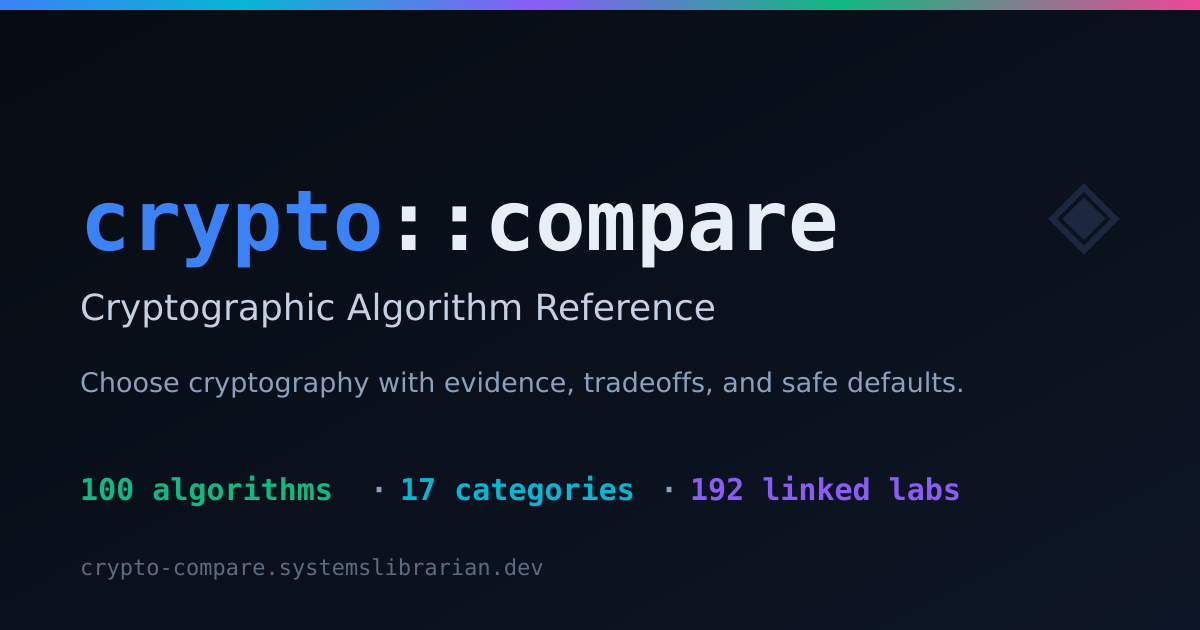
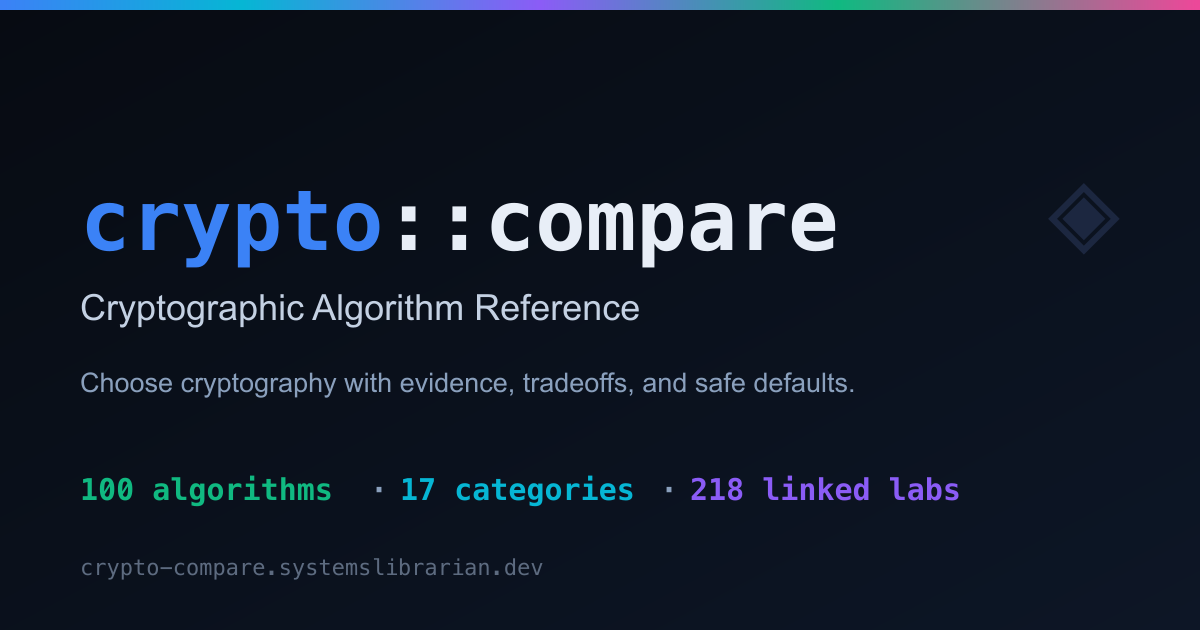
Map the 26 unmapped crypto-lab demos, 12 onto algorithms that had none (#32)
`check:demos` reported 26 live slugs with no entry in `demoResources.ts`. The
open drift issue listed 15; it was generated on 2026-09-28 and the catalog has
moved since, which is the issue being updated in place working as intended.

Placement is derived from each lab's `data-implements` evidence in the catalog
rather than from its name, so a lab lands beside the algorithm it actually
builds. That put 12 of them on algorithms that had no demo at all, which is a
better outcome than piling them onto the AES bucket:

  kuznyechik       MGM Mode, Sleeve Check
  snow_v           Air Stream, Misty Lens
  aes256gcmsiv     Order Leak
  p384             Privacy Pass
  mlkem512         PQ Chooser
  mldsa87          PQ Chooser
  haetae           KpqC Pair
  sm3              SM2 Forge
  streebog         TC26 Pair, Sleeve Check
  additive_sharing Proof Tally
  sm2_enc          SM2 Forge
  bn254            SM9 Forge

27 algorithms had no demo before this; 15 still do.

Four placements are worth saying out loud, because the obvious home was wrong:

- Misty Lens is MISTY1 and KASUMI, so it reads as "block cipher" and would
  have gone to `aes256gcm`. KASUMI is 3GPP's block cipher, standardised
  alongside SNOW 3G, and Air Stream computes both — `snow_v` keeps the 3GPP
  family together.
- Return Path is a toy SPN with no AES in it, and goes to `aes256gcm` anyway:
  it is the same toy SPN as Biham Lens, which already sits in that bucket.
[…]

Changed region(s): [[0.0925, 0.573, 0.8017, 0.6333], [0.0617, 0.4524, 0.6167, 0.5429], [0.555, 0.754, 0.6167, 0.8143]]

diff --git a/src/data/demoResources.ts b/src/data/demoResources.ts
@@ -111,6 +111,21 @@ export const ALGORITHM_DEMOS: Record<string, DemoResource[]> = {
       url: "https://systemslibrarian.github.io/crypto-lab-sector-vault/",
       note: "XTS-AES as full-disk encryption actually uses it, and the three attacks it silently returns plaintext for — then AES-GCM added to show which two that stops.",
     },
+    {
+      title: "Export Grade",
+      url: "https://systemslibrarian.github.io/crypto-lab-export-grade/",
+      note: "Runs real TETRA TEA1, traces its 80-bit key into a 32-bit working register, then extrapolates the rate your browser measured out to 2^80 and 2^128 beside the published attacks on full-round AES.",
+    },
+    {
+      title: "Glass Box",
+      url: "https://systemslibrarian.github.io/crypto-lab-glass-box/",
+      note: "Chow-style white-box AES-128 built from your key as 2,032 encoded lookup tables, then attacked twice: differential computation analysis recovers the key from execution traces, and BGE step A1 strips the table encodings.",
+    },
+    {
+      title: "Return Path",
+      url: "https://systemslibrarian.github.io/crypto-lab-return-path/",
+      note: "Impossible differentials and the boomerang attack on a toy SPN, with DDT and BCT tables computed live and an adaptive chosen-ciphertext oracle.",
+    },
   ],
   chacha20poly: [
     {
@@ -154,6 +169,37 @@ export const ALGORITHM_DEMOS: Record<string, DemoResource[]> = {
       title: "Stream Ward",
       url: "https://systemslibrarian.github.io/crypto-lab-stream-ward/",
       note: "Streaming AEAD over large files with XChaCha20-Poly1305 secretstream, showing how per-segment tags still verify after reorder, drop, or truncation until a chained state binds them.",
+    },
+  ],
+  kuznyechik: [
+    {
+      title: "MGM Mode",
+      url: "https://systemslibrarian.github.io/crypto-lab-mgm-mode/",
+      note: "MGM, the GOST AEAD mode of RFC 9058, over Magma and Kuznyechik: a distinct authentication coefficient per block against GCM's single H, every RFC test value checked, nonce reuse, and why 64-bit blocks re-key sooner.",
+    },
+    {
+      title: "Sleeve Check",
+      url: "https://systemslibrarian.github.io/crypto-lab-sleeve-check/",
+      note: "GOST published Kuznyechik's 256-byte S-box as a bare table. It falls out of four small constants and field arithmetic — evidence about how it was designed, which is not by itself an attack.",
+    },
+  ],
+  snow_v: [
+    {
+      title: "Air Stream",
+      url: "https://systemslibrarian.github.io/crypto-lab-air-stream/",
+      note: "Generates 128-EEA1, 128-EEA2 and 128-EEA3 keystream from one key, COUNT, bearer and direction, checking SNOW 3G, AES-CTR and ZUC against the test vectors in each specification.",
+    },
+    {
+      title: "Misty Lens",
+      url: "https://systemslibrarian.github.io/crypto-lab-misty-lens/",
+      note: "MISTY1 beside KASUMI, the 3GPP variant derived from it, with the design changes mapped and the seven-round related-key sandwich distinguisher executed in the page.",
+    },
+  ],
+  aes256gcmsiv: [
+    {
+      title: "Order Leak",
+      url: "https://systemslibrarian.github.io/crypto-lab-order-leak/",
+      note: "A column you can still sort or match on has published the shape of its answers: BCLO OPE and CLWW ORE beside AES-SIV, where equality, order and a public distribution hand back plaintext cell by cell without the key being touched.",
     },
   ],
   curve25519: [
@@ -357,6 +403,13 @@ export const ALGORITHM_DEMOS: Record<string, DemoResource[]> = {
       note: "TPM quote signatures as ECDSA P-256, deterministic per RFC 6979, with restricted-key TPM_RC_TICKET enforcement and RATS/EAT appraisal.",
     },
   ],
+  p384: [
+    {
+      title: "Privacy Pass",
+      url: "https://systemslibrarian.github.io/crypto-lab-privacy-pass/",
+      note: "A VOPRF over P-384 with a DLEQ proof (RFC 9578): the token proves the issuer authorised someone without the issuer, the origin, or the two colluding learning who. Remove the client's blind and nothing on the wire changes.",
+    },
+  ],
   secp256k1: [
     {
       title: "ECDSA Forge",
@@ -388,12 +441,29 @@ export const ALGORITHM_DEMOS: Record<string, DemoResource[]> = {
       url: "https://systemslibrarian.github.io/crypto-lab-musig-gate/",
       note: "MuSig2 (BIP-327) key and nonce aggregation producing a single secp256k1 Schnorr signature, plus the Wagner and ROS forgeries the scheme defends against.",
     },
+    {
+      title: "Adaptor Gate",
+      url: "https://systemslibrarian.github.io/crypto-lab-adaptor-gate/",
+      note: "BIP-340 adaptor signatures: one click turns a pre-signature the real verifier rejects into a valid signature, and subtracting the two reads the secret back out — the fact atomic swaps and PTLC routing are built on.",
+    },
+    {
+      title: "Point Ledger",
+      url: "https://systemslibrarian.github.io/crypto-lab-point-ledger/",
+      note: "Quantum resource estimates for secp256k1 beside a classical multiplication dialog, and where fuzz-test evidence stops supporting a Fiat-Shamir soundness claim.",
+    },
   ],
   curve448_ed448: [
     {
       title: "Curve448",
       url: "https://systemslibrarian.github.io/crypto-lab-curve448/",
       note: "High-security curve walkthrough for X448 and Ed448 style key agreement and signatures.",
+    },
+  ],
+  mlkem512: [
+    {
+      title: "PQ Chooser",
+      url: "https://systemslibrarian.github.io/crypto-lab-pq-chooser/",
+      note: "Set what constrains you and get a shortlist of two or three post-quantum schemes, built from sizes it derives by running ML-KEM, ML-DSA, Falcon and SLH-DSA in your browser rather than quoting a table.",
     },
   ],
   mlkem768: [
@@ -534,6 +604,11 @@ export const ALGORITHM_DEMOS: Record<string, DemoResource[]> = {
       url: "https://systemslibrarian.github.io/crypto-lab-ciphertext-mirror/",
       note: "ML-KEM side-channel walkthrough across the Fujisaki-Okamoto transform, decoder behavior, and NTT blinding countermeasures.",
     },
+    {
+      title: "PQXDH Wire",
+      url: "https://systemslibrarian.github.io/crypto-lab-pqxdh-wire/",
+      note: "One ML-KEM-1024 secret added to the X3DH transcript is what survives a future curve break. The prekey signature and the ratchet after it are untouched, so Bob can still be impersonated with every check green.",
+    },
   ],
   smaug_t: [
     {
@@ -545,6 +620,11 @@ export const ALGORITHM_DEMOS: Record<string, DemoResource[]> = {
       title: "NTRU Classic",
       url: "https://systemslibrarian.github.io/crypto-lab-ntru-classic/",
       note: "Lattice-encryption intuition builder for NTRU-style designs and their deployment tradeoffs.",
+    },
+    {
+      title: "KpqC Pair",
+      url: "https://systemslibrarian.github.io/crypto-lab-kpqc-pair/",
+      note: "NTRU+ from the older NTRU line beside historical AIM2-based AIMer signing, both KpqC candidates. Honest round trips do not establish signature security.",
     },
   ],
   hqc: [
@@ -674,6 +754,20 @@ export const ALGORITHM_DEMOS: Record<string, DemoResource[]> = {
       note: "Real MAYO keygen, signing, and verification over GF(16), showing how an oil space too small to invert becomes solvable once k copies of the map are whipped together.",
     },
   ],
+  mldsa87: [
+    {
+      title: "PQ Chooser",
+      url: "https://systemslibrarian.github.io/crypto-lab-pq-chooser/",
+      note: "Derives ML-DSA, Falcon and SLH-DSA key and signature sizes by running the real algorithms in your browser, then shortlists schemes against your constraints with their TLS wire cost.",
+    },
+  ],
+  haetae: [
+    {
+      title: "KpqC Pair",
+      url: "https://systemslibrarian.github.io/crypto-lab-kpqc-pair/",
+      note: "Historical AIM2-based AIMer signing, with a reported public-key-only forgery vulnerability (ePrint 2026/2235, September 28, 2026), beside NTRU+ from the older NTRU line.",
+    },
+  ],
   falcon512: [
     {
       title: "Falcon Seal",
@@ -706,6 +800,11 @@ export const ALGORITHM_DEMOS: Record<string, DemoResource[]> = {
       title: "Jevil",
       url: "https://systemslibrarian.github.io/crypto-lab-jevil/",
       note: "Hash-based few-time signature scheme over the Goldilocks field using Lagrange interpolation for bounded-use signing with reusable verification keys.",
+    },
+    {
+      title: "TC26 Pair",
+      url: "https://systemslibrarian.github.io/crypto-lab-tc26-pair/",
+      note: "Hypericum, a stateless hash-based TC26 proposal built over Streebog, beside code-based Shipovnik.",
     },
   ],
   xmss: [
@@ -773,6 +872,11 @@ export const ALGORITHM_DEMOS: Record<string, DemoResource[]> = {
       url: "https://systemslibrarian.github.io/crypto-lab-attestation-gate/",
       note: "PCR extension as PCR_new = H(PCR_old || measurement) over a hand-rolled SHA-256, showing the exact 64-byte preimage each measurement hashes.",
     },
+    {
+      title: "Ghost Commit",
+      url: "https://systemslibrarian.github.io/crypto-lab-ghost-commit/",
+      note: "Git adds objects and never edits them, so a committed API key keeps its name and contents two commits after deletion — then a Shannon-entropy scanner finds it in seconds.",
+    },
   ],
   sha512: [
     {
@@ -817,6 +921,25 @@ export const ALGORITHM_DEMOS: Record<string, DemoResource[]> = {
       note: "Cross-standard hash overview and algorithm family context.",
     },
   ],
+  sm3: [
+    {
+      title: "SM2 Forge",
+      url: "https://systemslibrarian.github.io/crypto-lab-sm2-forge/",
+      note: "Reads the SM3 identity digest that precedes every SM2 signature, signs and encrypts under GB/T 32918, compares both deployed ciphertext orders, then recovers a key from a reused nonce.",
+    },
+  ],
+  streebog: [
+    {
+      title: "TC26 Pair",
+      url: "https://systemslibrarian.github.io/crypto-lab-tc26-pair/",
+      note: "Two TC26 post-quantum signature proposals built over Streebog, side by side: code-based Shipovnik and stateless hash-based Hypericum.",
+    },
+    {
+      title: "Sleeve Check",
+      url: "https://systemslibrarian.github.io/crypto-lab-sleeve-check/",
+      note: "Reconstructs the 256-byte GOST S-box that Kuznyechik and Streebog share from four small constants and field arithmetic — evidence about how it was designed, not an attack on it.",
+    },
+  ],
   hkdf: [
     {
       title: "KDF Chain",
@@ -827,6 +950,11 @@ export const ALGORITHM_DEMOS: Record<string, DemoResource[]> = {
       title: "Context Ward",
       url: "https://systemslibrarian.github.io/crypto-lab-context-ward/",
       note: "HKDF role separation deriving per-role seal keys for an agent context window sealed into a SHA-256 hash chain.",
+    },
+    {
+      title: "Drift Key",
+      url: "https://systemslibrarian.github.io/crypto-lab-drift-key/",
+      note: "A code-offset secure sketch over hand-built BCH codes feeds HKDF-SHA-256, turning a noisy reading that never repeats into the same key every time, and prices the entropy the public helper data costs.",
     },
   ],
   argon2_kdf: [
@@ -989,6 +1117,13 @@ export const ALGORITHM_DEMOS: Record<string, DemoResource[]> = {
       note: "Verifiable sharing workflow with commitments and complaint handling.",
     },
   ],
+  additive_sharing: [
+    {
+      title: "Proof Tally",
+      url: "https://systemslibrarian.github.io/crypto-lab-proof-tally/",
+      note: "Prio3: additive shares hide a measurement and will happily add a lie to the total, until a fully linear proof carried in the same shares lets two aggregators reject a malformed report neither of them can read.",
+    },
+  ],
   tfhe: [
     {
       title: "Blind Oracle",
@@ -1057,6 +1192,11 @@ export const ALGORITHM_DEMOS: Record<string, DemoResource[]> = {
       title: "ZK Arena",
       url: "https://systemslibrarian.github.io/crypto-lab-zk-arena/",
       note: "Side-by-side comparison of zk-SNARK and zk-STARK proof systems across setup phases, proving overhead, and verification cost.",
+    },
+    {
+      title: "Fold Gate",
+      url: "https://systemslibrarian.github.io/crypto-lab-fold-gate/",
+      note: "Nova's non-interactive folding scheme: combining two satisfying R1CS instances leaves a computable cross term, and relaxing the system with a slack scalar and an error vector lets one folded instance stand in for all of them.",
     },
   ],
   plonk: [
@@ -1184,6 +1324,11 @@ export const ALGORITHM_DEMOS: Record<string, DemoResource[]> = {
       url: "https://systemslibrarian.github.io/crypto-lab-oram-vault/",
       note: "Access-pattern privacy walkthrough for stronger hiding guarantees in repeated query settings.",
     },
+    {
+      title: "Split Point",
+      url: "https://systemslibrarian.github.io/crypto-lab-split-point/",
+      note: "Secret-share a function rather than a value: two DPF keys each evaluate to shares of one-at-alpha and zero everywhere else, so two non-colluding servers fold 65,536 records and neither learns which one you read.",
+    },
   ],
   aby: [
     {
@@ -1202,6 +1347,18 @@ export const ALGORITHM_DEMOS: Record<string, DemoResource[]> = {
       title: "Rekey Relay",
       url: "https://systemslibrarian.github.io/crypto-lab-rekey-relay/",
       note: "BBS98 proxy re-encryption is ElGamal with the ciphertext components swapped — shown here beside AFGH on the same curve.",
+    },
+    {
+      title: "Function Key",
+      url: "https://systemslibrarian.github.io/crypto-lab-function-key/",
+      note: "ABDP15 inner-product functional encryption over ristretto255: a key answers one weighted-sum question about an encrypted vector and nothing else, until enough colluding keys hand over the master secret.",
+    },
+  ],
+  sm2_enc: [
+    {
+      title: "SM2 Forge",
+      url: "https://systemslibrarian.github.io/crypto-lab-sm2-forge/",
+      note: "Sign and encrypt under GB/T 32918 SM2 (RFC 8998), compare both deployed ciphertext orders, and recover a key from a reused nonce.",
     },
   ],
   rsa_oaep_2048: [
@@ -1234,6 +1391,11 @@ export const ALGORITHM_DEMOS: Record<string, DemoResource[]> = {
       title: "Factor Forge",
       url: "https://systemslibrarian.github.io/crypto-lab-factor-forge/",
       note: "Seven classical factoring methods on a real BigInt modulus, each waiting for a different key-generation mistake — a small factor, a narrow |p - q|, a smooth p-1 or p+1 — with every claimed factor multiplied back and primality-tested before it is shown.",
+    },
+    {
+      title: "Hidden Bit",
+      url: "https://systemslibrarian.github.io/crypto-lab-hidden-bit/",
+      note: "Runs the IND-CPA and CCA games against textbook RSA, RSA-OAEP, RSA-PSS and AES modes: a rising advantage proves a scheme broken, a flat one proves only that these adversaries failed, which is why security needs a reduction.",
     },
   ],
   rsa_oaep_4096: [
@@ -1360,6 +1522,11 @@ export const ALGORITHM_DEMOS: Record<string, DemoResource[]> = {
       url: "https://systemslibrarian.github.io/crypto-lab-drbg-arena/",
       note: "State evolution, reseeding, and backtracking-resistance comparison across DRBGs.",
     },
+    {
+      title: "Noise to Numbers",
+      url: "https://systemslibrarian.github.io/crypto-lab-noise-to-numbers/",
+      note: "NIST SP 800-90B min-entropy from pinned runs of the real assessment tool: a modelled Infinite Noise TRNG scores 0.37 bits per bit, a SHA-256 counter scores 0.92. Entropy belongs to the source, not the bytes.",
+    },
   ],
   chacha20_drbg: [
     {
@@ -1434,11 +1601,23 @@ export const ALGORITHM_DEMOS: Record<string, DemoResource[]> = {
       note: "FAME CP-ABE over BLS12-381 pairings, with a collusion attempt that splices two real keys and shows the term that refuses to cancel.",
     },
   ],
+  bn254: [
+    {
+      title: "SM9 Forge",
+      url: "https://systemslibrarian.github.io/crypto-lab-sm9-forge/",
+      note: "SM9 identity-based signatures, key exchange and encryption over a BN256 pairing curve, run against the standard's own worked examples — with key escrow by construction and a nonce-reuse recovery.",
+    },
+  ],
   bls_threshold: [
     {
       title: "Pairing Gate",
       url: "https://systemslibrarian.github.io/crypto-lab-pairing-gate/",
       note: "Pairing-based threshold signature mechanics and aggregation concepts.",
+    },
+    {
+      title: "Pulse Chain",
+      url: "https://systemslibrarian.github.io/crypto-lab-pulse-chain/",
+      note: "Verifies drand rounds with a BLS12-381 pairing and recomputes real NIST Beacon 2.0 pulses byte by byte, then shows what no check proves: whether the operator knew first.",
     },
   ],
 };

diff --git a/README.md b/README.md
@@ -2,7 +2,7 @@
 
 **Cryptographic algorithm decision system for engineers, architects, and technical decision-makers.**
 
-100 algorithms. 17 categories. 192 unique linked public demos. Sourced recommendations. Safe-usage guidance. Reference architectures. Post-quantum migration context.
+100 algorithms. 17 categories. 218 unique linked public demos. Sourced recommendations. Safe-usage guidance. Reference architectures. Post-quantum migration context.
 
 🌐 **[Live Site →](https://crypto-compare.systemslibrarian.dev/)**
 
@@ -304,7 +304,7 @@ That honesty is part of the trust model, not a weakness in spite of it.
 | **Download justification reports** | Markdown output for architecture reviews and design discussion |
 | **Filter and sort** | PQ-safe, publication stage, NIST status, deployment, origin, and category-appropriate size dimensions; unlike security properties are never globally ranked |
 | **Review hybrid patterns** | Classical-plus-PQ constructions for practical migration planning |
-| **Explore linked demo projects** | 192 unique linked public demos across the mapped categories, with per-category project context in the explainer panels |
+| **Explore linked demo projects** | 218 unique linked public demos across the mapped categories, with per-category project context in the explainer panels |
 | **Read safety and architecture guidance** | Use-case content, pitfalls, library direction, and system-level flows |
 
 ### Coverage Snapshot
@@ -416,7 +416,7 @@ Each category in the app links to working demo projects that illustrate the cryp
 
 - Full live crypto-lab index: [crypto-lab.systemslibrarian.dev](https://crypto-lab.systemslibrarian.dev/)
 - App mapping source of truth: [src/data/demoResources.ts](src/data/demoResources.ts)
-- Current mapped crypto-lab demos: **192** unique slugs (kept in sync with the live crypto-lab catalog)
+- Current mapped crypto-lab demos: **218** unique slugs (kept in sync with the live crypto-lab catalog)
 
 The list below is representative rather than exhaustive.
 
